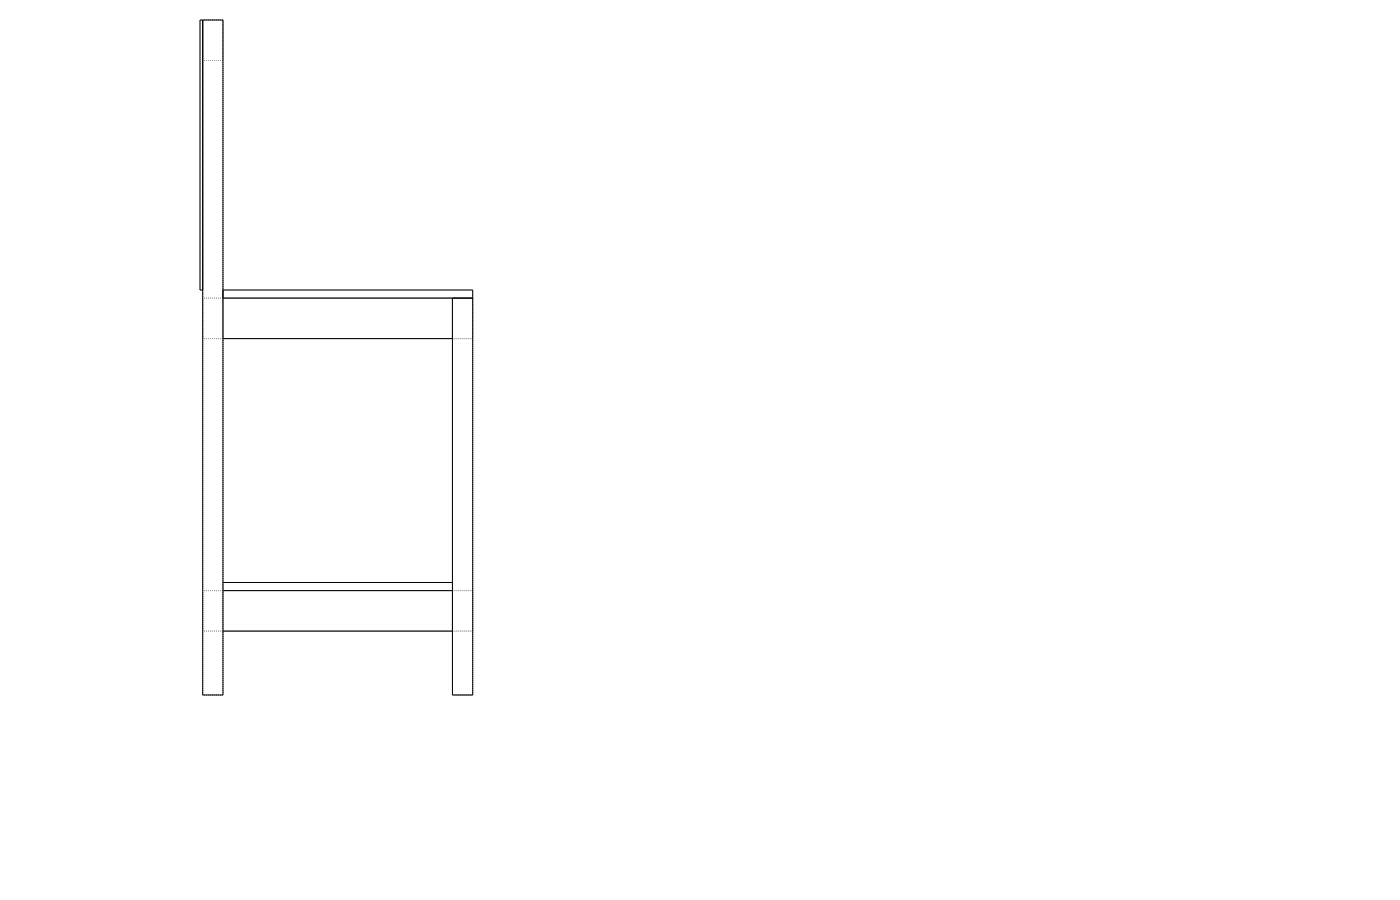
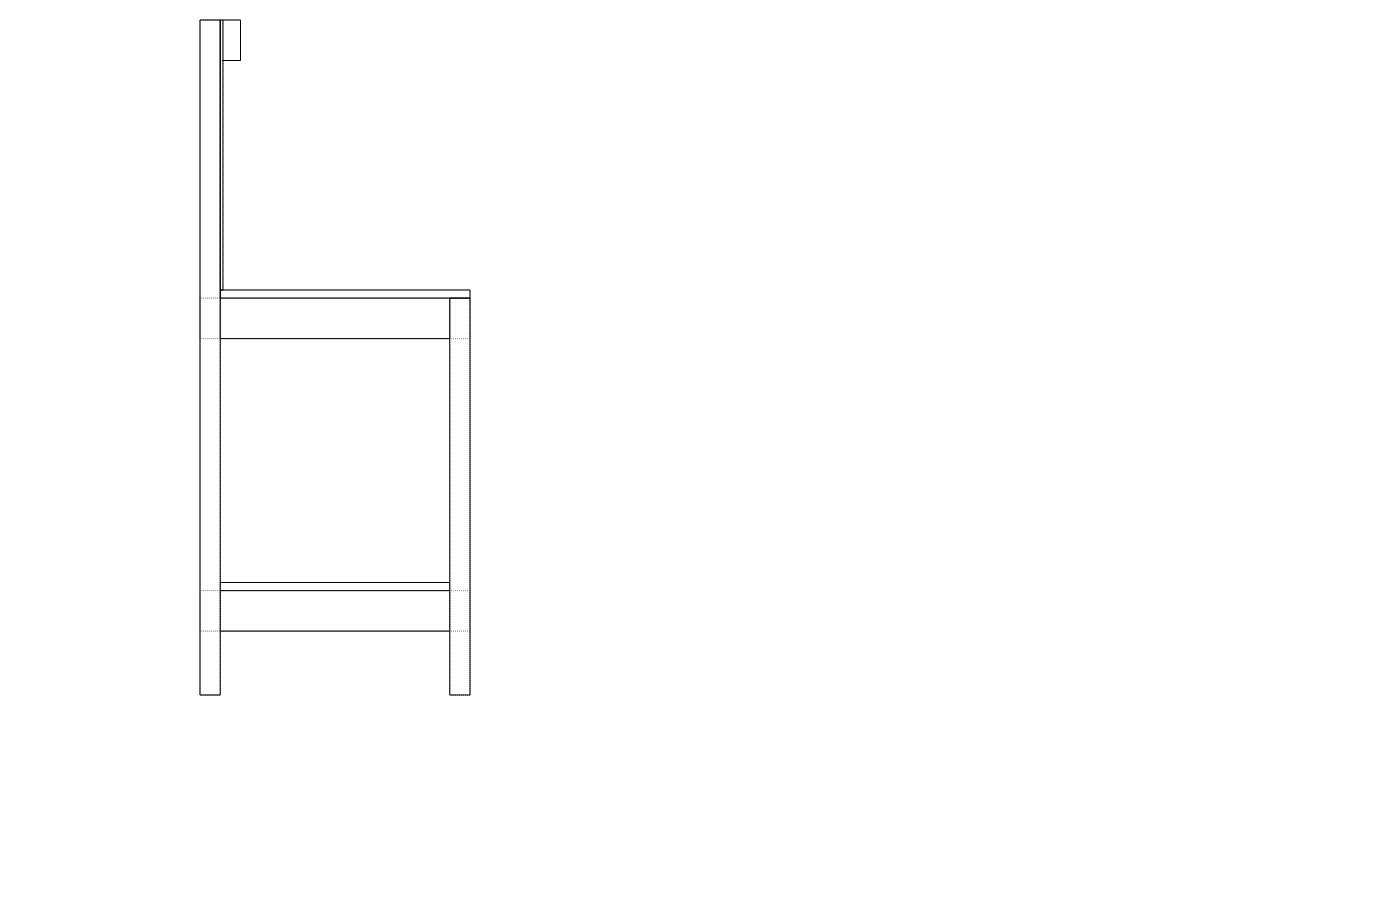
deploy: b000ffaffdd8332c3ad4f2e9fcaa8f486814f91c

diff --git a/pr-4/garage-workbench/index.html b/pr-4/garage-workbench/index.html
@@ -130,7 +130,7 @@ figure img { width: 100%; height: auto; display: block; background: #fff; }
 <body>
   <p class="back"><a href="../">← All Projects</a></p>
   <h2>Garage Workbench</h2>
-  <p class="meta">Generated 2026-05-03 05:56 UTC</p>
+  <p class="meta">Generated 2026-05-03 06:21 UTC</p>
   <div class="views">
     <figure>
       <figcaption>Isometric</figcaption>
@@ -350,7 +350,7 @@ Sheet 1 → top (1800×555). Sheet 2 → shelf (1620×510) with offcut to spare.
 <p>d. Recheck square and adjust if needed (a diagonal tap with a hammer usually corrects a few mm).</p>
 <ol>
 <li>
-<p><strong>Fit the back top rail</strong> — Toe-nail the 1620 mm back top rail between the tops of the two extended back legs, flush with their top faces and with the inside back face of the legs — this mirrors the front apron and completes the pegboard perimeter frame. 3× 75 mm screws per joint from inside.</p>
+<p><strong>Fit the back top rail</strong> — Toe-nail the 1620 mm back top rail between the tops of the two extended back legs, flush with their top faces and with the front face of the legs — facing the workspace. This completes the pegboard perimeter frame. 3× 75 mm screws per joint from behind.</p>
 </li>
 <li>
 <p><strong>Cut sheet materials</strong> — From sheet 1, cut the top: 1800×555 mm (shortened to clear the extended back legs). From sheet 2, cut the shelf: 1620×510 mm. From the hardboard sheet, cut the pegboard panel: 1800×600 mm. A circular saw with a clamped straight-edge gives a clean straight cut; alternatively ask the timber yard to rip the sheets for you.</p>
@@ -362,7 +362,7 @@ Sheet 1 → top (1800×555). Sheet 2 → shelf (1620×510) with offcut to spare.
 <p><strong>Fit the shelf</strong> — Drop the shelf panel onto the stretchers. Drive 2× 75 mm screws per stretcher through the shelf into the stretcher top face to hold it captive.</p>
 </li>
 <li>
-<p><strong>Mount the pegboard</strong> — Stand the 1800×600 mm hardboard panel in the frame: bottom edge resting on the work surface, top edge against the back top rail, side edges against the back legs. Pre-drill 3 mm pilot holes through the 6 mm hardboard into each back leg (at ⅓ and ⅔ of the panel height) and into the back top rail near the quarter-points. Drive 30 mm screws to pull the panel tight into the frame.</p>
+<p><strong>Mount the pegboard</strong> — Slide the 1800×600 mm hardboard panel into the frame against the front faces of the back legs, facing the workspace: bottom edge resting on the work surface, top edge against the back top rail, side edges flush with the outer faces of the back legs. Pre-drill 3 mm pilot holes through the 6 mm hardboard into each back leg (at ⅓ and ⅔ of the panel height) and into the back top rail near the quarter-points. Drive 30 mm screws from the front face.</p>
 </li>
 <li>
 <p><strong>Finish</strong> — The H3.2 treated pine needs no additional finish for a garage environment. Round any sharp corners with a few passes of 80-grit sandpaper. The plywood top can be left bare and will harden with use, or apply 2 coats of boiled linseed oil for moisture resistance.</p>

diff --git a/pr-4/index.html b/pr-4/index.html
@@ -42,7 +42,7 @@ h2 { font-size: 1.3rem; color: #c8a96e; margin-bottom: 1rem; }
 </head>
 <body>
   <h1>Woodworking Projects</h1>
-  <p class="meta">Generated 2026-05-03 05:56 UTC &mdash; 2 project(s)</p>
+  <p class="meta">Generated 2026-05-03 06:21 UTC &mdash; 2 project(s)</p>
   <div class="grid">
     <a class="card" href="firewood-shelter/">
       <img src="firewood-shelter/preview.png" alt="Firewood Shelter">

diff --git a/pr-4/firewood-shelter/index.html b/pr-4/firewood-shelter/index.html
@@ -130,7 +130,7 @@ figure img { width: 100%; height: auto; display: block; background: #fff; }
 <body>
   <p class="back"><a href="../">← All Projects</a></p>
   <h2>Firewood Shelter</h2>
-  <p class="meta">Generated 2026-05-03 05:56 UTC</p>
+  <p class="meta">Generated 2026-05-03 06:21 UTC</p>
   <div class="views">
     <figure>
       <figcaption>Isometric</figcaption>
